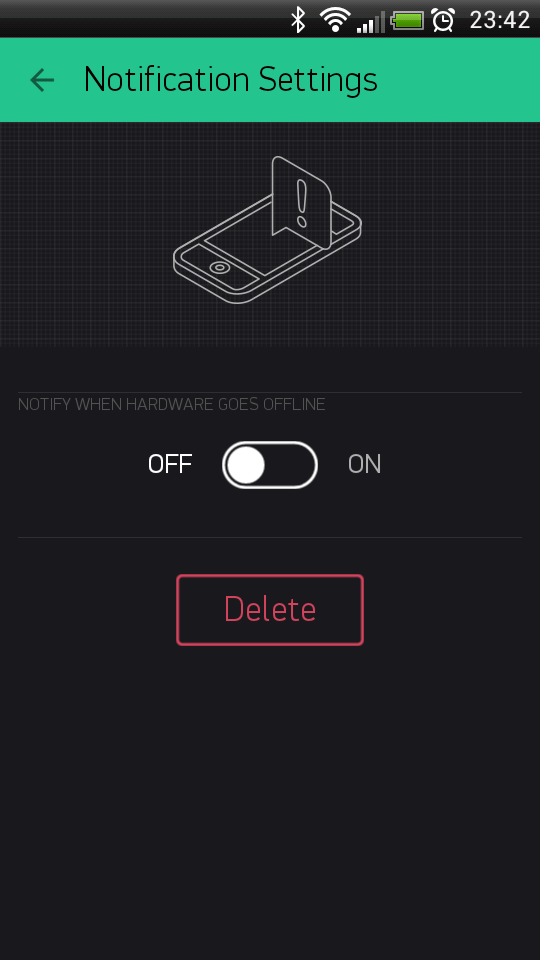
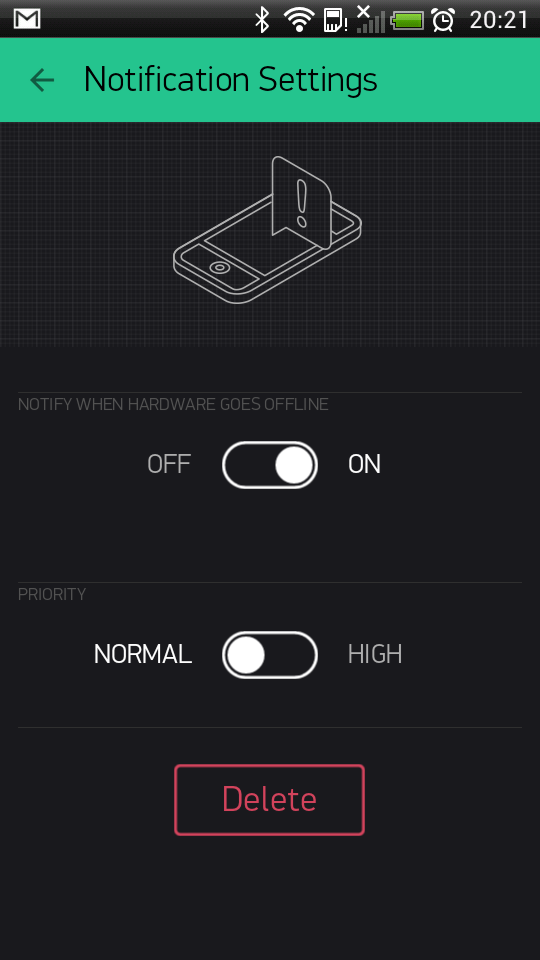
Push notif doc update.

diff --git a/Widgets.md b/Widgets.md
@@ -243,7 +243,12 @@ Limitations :
 
 ###Push Notifications
 
-Push Notification widget allows you to send push notification from your hardware to your device.
+Push Notification widget allows you to send push notification from your hardware to your device. Currently it also
+ contains 2 additional options :
+
+- "Notify when hardware offline" - you will get push notification in case your hardware went offline
+- "Priority" - see detailed explanation [here](https://developers.google.com/cloud-messaging/concept-options#setting-the-priority-of-a-message). 
+Beware that setting your messages to high priority contributes more to battery drain compared to normal priority messages
 
 <img src="images/push.png" style="width: 77px; height:80px"/>
 
